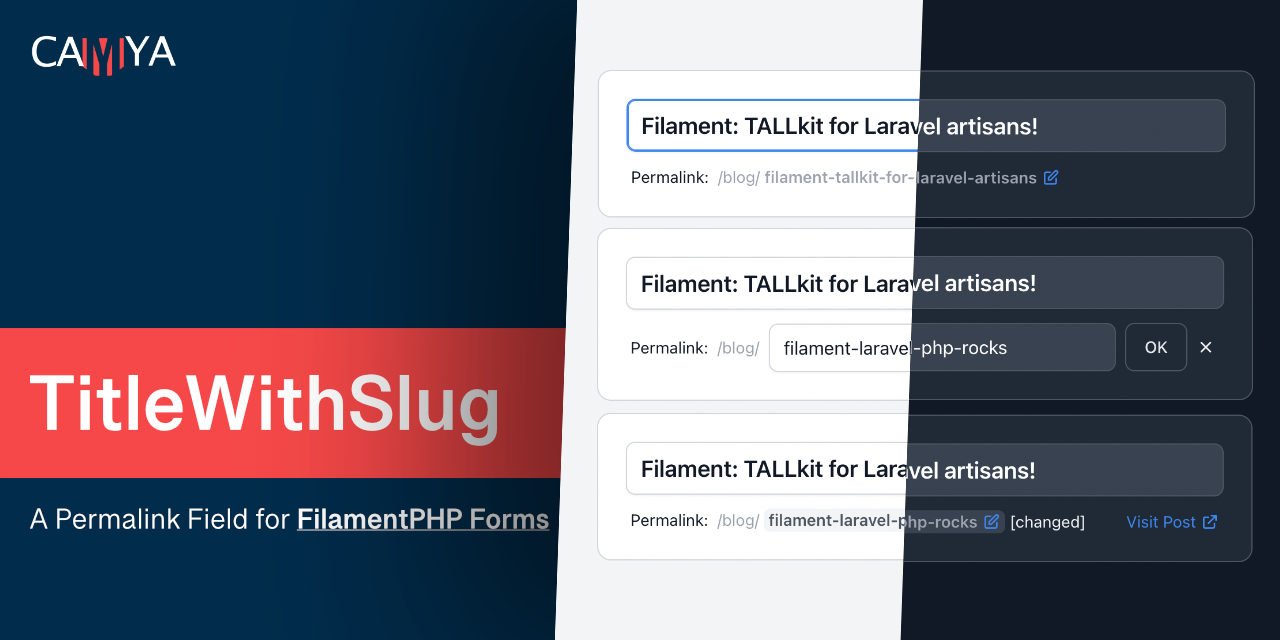
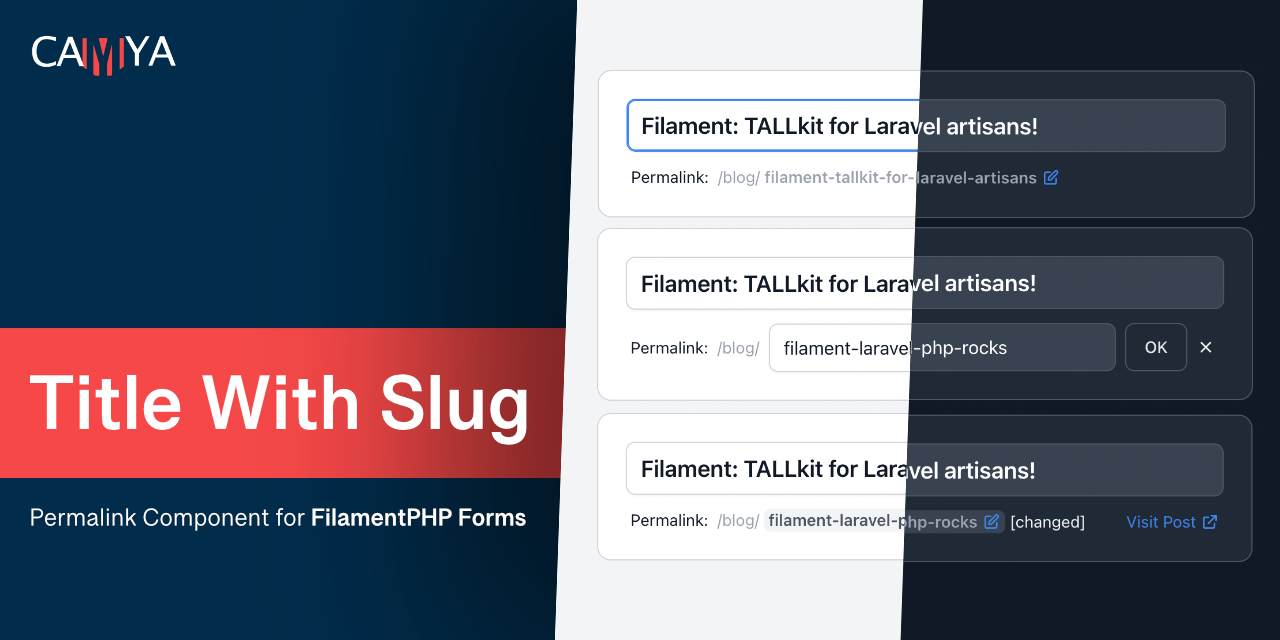
Readme updated

Changed region(s): [[0.0625, 0.5625, 0.4375, 0.7188], [0.0, 0.7812, 0.4375, 0.8438]]

diff --git a/README.md b/README.md
@@ -1,10 +1,11 @@
 <img src="docs/camya-filament-title-with-slug_teaser-github.jpg" />
 
-# TitleWithSlugInput - Easy Permalink Slugs for the FilamentPHP Form Builder (PHP / Laravel / Livewire)
+# "Title With Slug" Input - Easy Permalink Slugs for Filament Forms (PHP / Laravel / Livewire)
 
-This package for [FilamentPHP](https://filamentphp.com/) adds the form component `TitleWithSlugInput` which allows to edit titles and slugs easily.
+This package for [FilamentPHP](https://filamentphp.com/) adds the form component `TitleWithSlugInput` which allows to
+edit titles and slugs easily. 
 
-It is inspired by the **classic WordPress title & slug** implementation.
+It is inspired by the classic **WordPress title & slug** implementation.
 
 ```php
 TitleWithSlugInput::make(
@@ -12,11 +13,14 @@ TitleWithSlugInput::make(
     fieldSlug: 'slug', // The name of the field in your model that will store the slug.
 ),
 ```
-Watch **[&raquo; Demo Video &laquo;](https://www.youtube.com/watch?v=5u1Nepm2NiI)**
 
-<img src="docs/examples/camya-filament-title-with-slug_example_introduction-teaser.png" width="600" />
+The output looks like this: (Watch **[&raquo; Demo Video &laquo;](https://www.youtube.com/watch?v=5u1Nepm2NiI)**)
 
-**Features**
+<img src="docs/examples/camya-filament-title-with-slug_example_change-fields_01.png" width="600" />
+
+<img src="docs/examples/camya-filament-title-with-slug_example_change-fields_02.png" width="600" />
+
+## Features
 
 - Slug edit form.
 - "Visit" link to view the generated URL.
@@ -26,6 +30,10 @@ Watch **[&raquo; Demo Video &laquo;](https://www.youtube.com/watch?v=5u1Nepm2NiI
 - Dark Mode supported.
 - Fully configurable, see [all available parameters](#all-available-parameters).
 
+## Video
+
+You can watch a short demo video of the packages below.
+
 [![Video](docs/camya-filament-title-with-slug_teaser_video.jpg)](https://www.youtube.com/watch?v=5u1Nepm2NiI)
 
 ## Support us
@@ -34,13 +42,16 @@ You can support my work with a [donation](https://www.paypal.com/paypalme/epicbu
 
 [Follow me on Twitter](https://twitter.com/camyaCom) for DEV updates.
 
+Support the package: Please give it a &#11088; Star on GitHub and on the official Filament [plugin page](https://filamentphp.com/plugins/title-with-slug-permalink), if it's helpful for you.
+
 ## Table of contents
 
 - [Installation](#installation)
 - [Usage & examples](#usage--examples)
     - [Basic usage - Add TitleWithSlugInput to a Filament Form](#basic-usage---add-titlewithsluginput-to-a-filament-form)
     - [Change model fields names](#change-model-fields-names)
-    - [Change labels, titles, placeholder](#change-labels-titles-placeholder-and-basepath)
+    - [Change labels, titles, placeholder](#change-labels-titles-placeholder)
+    - [Permalink preview: Hide host](#permalink-preview-hide-host)
     - [Permalink preview: Change host and path](#permalink-preview-change-host-and-path)
     - ["Visit" link - Use router to generate URL with route()](#visit-link---use-router-to-generate-url-with-route)
     - [Hide "Visit" link](#hide-visit-link)
@@ -70,21 +81,27 @@ If needed, you can publish the config file with:
 php artisan vendor:publish --tag="filament-title-with-slug-config"
 ```
 
+## Translation
+
 If needed, you can publish the translation files with:
 
 ```bash
 php artisan vendor:publish --tag="filament-title-with-slug-translations"
 ```
 
-This package is translated to: [english (en)](https://github.com/camya/filament-title-with-slug/blob/main/resources/lang/en/package.php), [german (de)](https://github.com/camya/filament-title-with-slug/blob/main/resources/lang/de/package.php)
+This package is translated
+to: 
+- [english (en)](https://github.com/camya/filament-title-with-slug/blob/main/resources/lang/en/package.php)
+- [german (de)](https://github.com/camya/filament-title-with-slug/blob/main/resources/lang/de/package.php)
 
-If you want to translate the package, you can visit our [GitHub discussions](https://github.com/camya/filament-title-with-slug/discussions) and post your translation there.
+You translated it too? Share your translation on
+our [GitHub discussions](https://github.com/camya/filament-title-with-slug/discussions) page. 
 
 ## Usage & examples
 
 ### Basic usage - Add TitleWithSlugInput to a Filament Form
 
-This package provides the custom InputField `TitleWithSlugInput` for the **Filament Form Builder**. 
+This package provides the custom InputField `TitleWithSlugInput` for the **Filament Form Builder**.
 
 Read the [installation details for Filament](https://filamentphp.com/docs/2.x/admin/installation) here.
 
@@ -119,7 +136,6 @@ The output looks like this:
 
 <img src="docs/examples/camya-filament-title-with-slug_example_change-fields_01.png" width="600" />
 <img src="docs/examples/camya-filament-title-with-slug_example_change-fields_02.png" width="600" />
-<img src="docs/examples/camya-filament-title-with-slug_example_change-fields_03.png" width="600" />
 
 ### Change model fields names
 
@@ -152,6 +168,8 @@ In this example, we also add the base path `/books/`.
 )
 ```
 
+> Tip: You can [translate the package](#contributing) completely. 
+
 The output looks like this:
 
 <img src="docs/examples/camya-filament-title-with-slug_example_change-labels_01.png" width="600" />
@@ -171,7 +189,7 @@ The output looks like this:
 
 <img src="docs/examples/camya-filament-title-with-slug_example_host-hidden_01.png" width="600" />
 
-### Permalink preview: Change host and path 
+### Permalink preview: Change host and path
 
 You can set the path and the host for the preview.
 
@@ -188,11 +206,7 @@ The output looks like this:
 
 ### "Visit" link - Use router to generate URL with route()
 
-By default, this package simply concatenates the strings host + path + slug to generate the "Visit" link.
-
-If you want set a host like `urlHost: 'camya.com'` to shorten the permalink preview, this becomes a problem.
-
-To fix that, you can set the `urlVisitLinkRoute` parameter, which generates the "Visit" link using a defined route().
+You can use a named route, e.g. `route('product.show', ['slug' => $record->slug])`, to generated the "Visit" link.
 
 ```php
 \Camya\Filament\Forms\Components\TitleWithSlugInput::make(
@@ -204,9 +218,15 @@ To fix that, you can set the `urlVisitLinkRoute` parameter, which generates the 
 )
 ```
 
+Laravel documentation: [Generating URLs To Named Routes](https://laravel.com/docs/9.x/routing#generating-urls-to-named-routes)
+
+By default, the package concatenates the strings `host + path + slug` to generate the "Visit" link.
+
+Because the "Visit" link now is generated by an route, you can use partial hosts like `urlHost: 'camya.com'` to shorten the permalink preview.
+
 The output looks like this:
 
-<img src="docs/examples/camya-filament-title-with-slug_example_host-partial_01.png.png" width="600" />
+<img src="docs/examples/camya-filament-title-with-slug_example_host-partial_01.png" width="600" />
 
 ### Hide "Visit" link
 
@@ -330,7 +350,6 @@ The package supports Filament's dark mode. Dark mode output looks like this:
 
 <img src="docs/examples/camya-filament-title-with-slug_example_dark-mode_01.png" width="600" />
 <img src="docs/examples/camya-filament-title-with-slug_example_dark-mode_02.png" width="600" />
-<img src="docs/examples/camya-filament-title-with-slug_example_dark-mode_03.png" width="600" />
 
 ### All available parameters
 
@@ -402,7 +421,8 @@ Please see [CHANGELOG](CHANGELOG.md) for more information on what has changed re
 
 ## Contributing
 
-Want to implement a feature, fix a bug, or translate this package? Please see [contributing](.github/CONTRIBUTING.md) for details.
+Want to implement a feature, fix a bug, or translate this package? Please see [contributing](.github/CONTRIBUTING.md)
+for details.
 
 ## Security Vulnerabilities
 
@@ -410,9 +430,10 @@ Please review [our security policy](../../security/policy) on how to report secu
 
 ## Credits
 
-- [Andreas Scheibel (camya)](https://github.com/camya) (Developer at  [camya.com](https://www.camya.com) & [epicbundle.com](https://www.epicbundle.com))
+- [Andreas Scheibel (camya)](https://github.com/camya) (Developer at  [camya.com](https://www.camya.com)
+  / [epicbundle.com](https://www.epicbundle.com))
 
-[FilamentPHP](https://filamentphp.com/) 
+[FilamentPHP](https://filamentphp.com/)
 is based on
 [Laravel](https://laravel.com/),
 [Livewire](https://laravel-livewire.com/),
@@ -429,15 +450,18 @@ The MIT License (MIT). Please see [License File](LICENSE.md) for more informatio
 
 <img src="docs/camya-filament-title-with-slug_teaser_social.jpg" />
 
-## Tooling - Development tools we use
+## Tooling - Development tools I use
 
-- [PHPStorm](https://www.jetbrains.com/phpstorm/) IDE (+ [Laravel Idea](https://plugins.jetbrains.com/plugin/13441-laravel-idea) Plugin)
-- Laravel with [Valet](https://laravel.com/docs/9.x/valet) and [Lambo](https://github.com/https://github.com/tighten/lambo/lambo)
+- [PHPStorm](https://www.jetbrains.com/phpstorm/) IDE ( + [Laravel Idea](https://plugins.jetbrains.com/plugin/13441-laravel-idea) Plugin)
+- Laravel with [Valet](https://laravel.com/docs/9.x/valet)
+  and [Lambo](https://github.com/https://github.com/tighten/lambo/lambo)
+- [GitHub Desktop](https://desktop.github.com/)
 - Translations with [DeepL](https://www.deepl.com/translator) and [LanguageTool](https://languagetool.org/)
-- [iTerm2](https://iterm2.com/) Terminal
-- [Regex101](https://regex101.com/) - Build, text, debug regex.
 - [Markdown TOC Generator](https://luciopaiva.com/markdown-toc/)
 - SVG Icons by [Heroicons](https://heroicons.com/)
+- [iTerm2](https://iterm2.com/) Terminal
+- [Regex101](https://regex101.com/) - Build, text, debug regex.
 - [Affinity](https://affinity.serif.com/) Photo & Designer
+- [VSCode](https://code.visualstudio.com/)
 
 [Follow me on Twitter](https://twitter.com/camyaCom)
